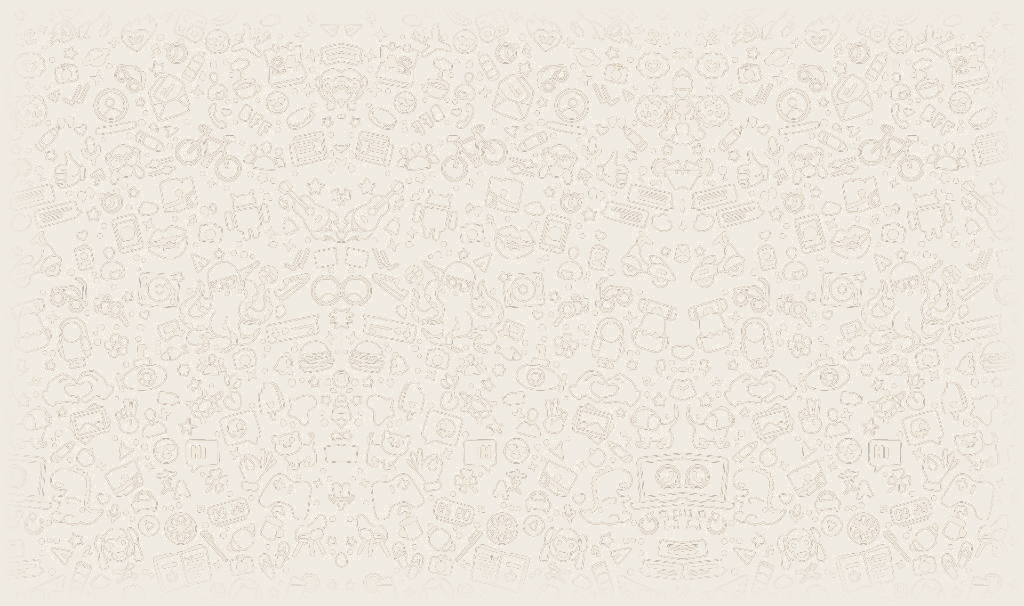
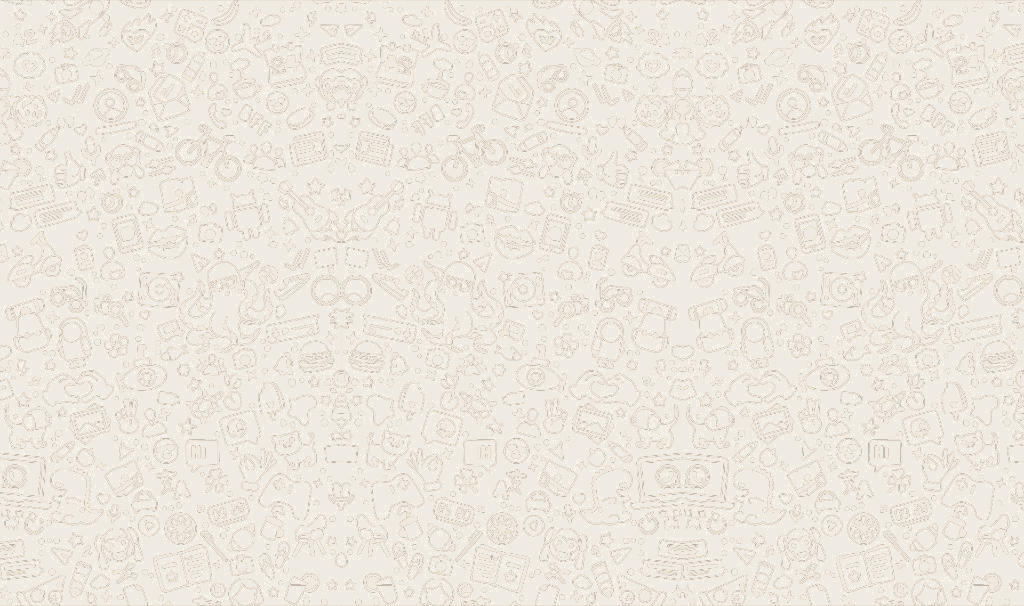
style: wallpaper más grande y sin huecos entre tiles

diff --git a/src/index.css b/src/index.css
@@ -322,12 +322,12 @@ html[data-ahorro='1'] .trazo-marca { background: #f59e0b; }
 
 .chat-wa-fondo {
   background-color: var(--wa-fondo);
-  /* Mosaico mediano (nítido) + velo suave; bordes del PNG difuminados para ocultar uniones */
+  /* Azulejos más grandes y juntos (sin feather que abría huecos) */
   background-image:
-    linear-gradient(color-mix(in srgb, var(--wa-fondo) 52%, transparent), color-mix(in srgb, var(--wa-fondo) 52%, transparent)),
+    linear-gradient(color-mix(in srgb, var(--wa-fondo) 45%, transparent), color-mix(in srgb, var(--wa-fondo) 45%, transparent)),
     url('/chat/wa-wallpaper-light.png');
   background-repeat: repeat;
-  background-size: auto, 360px 213px;
+  background-size: auto, 560px 332px;
 }
 
 /* Iniciales del avatar: % del tamaño del círculo (no del texto padre) */
